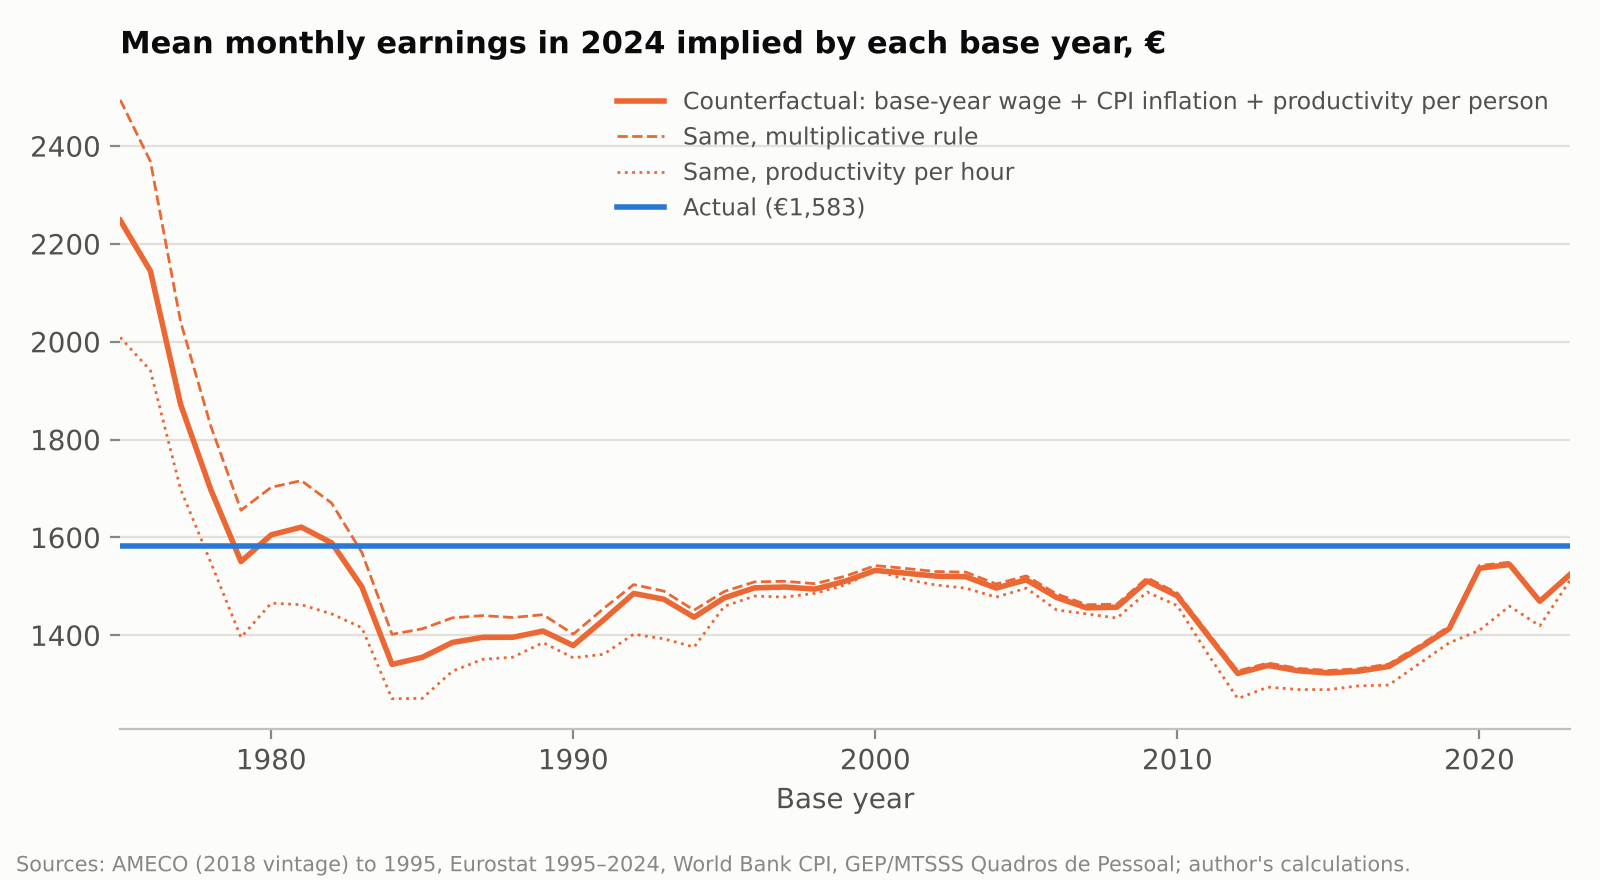
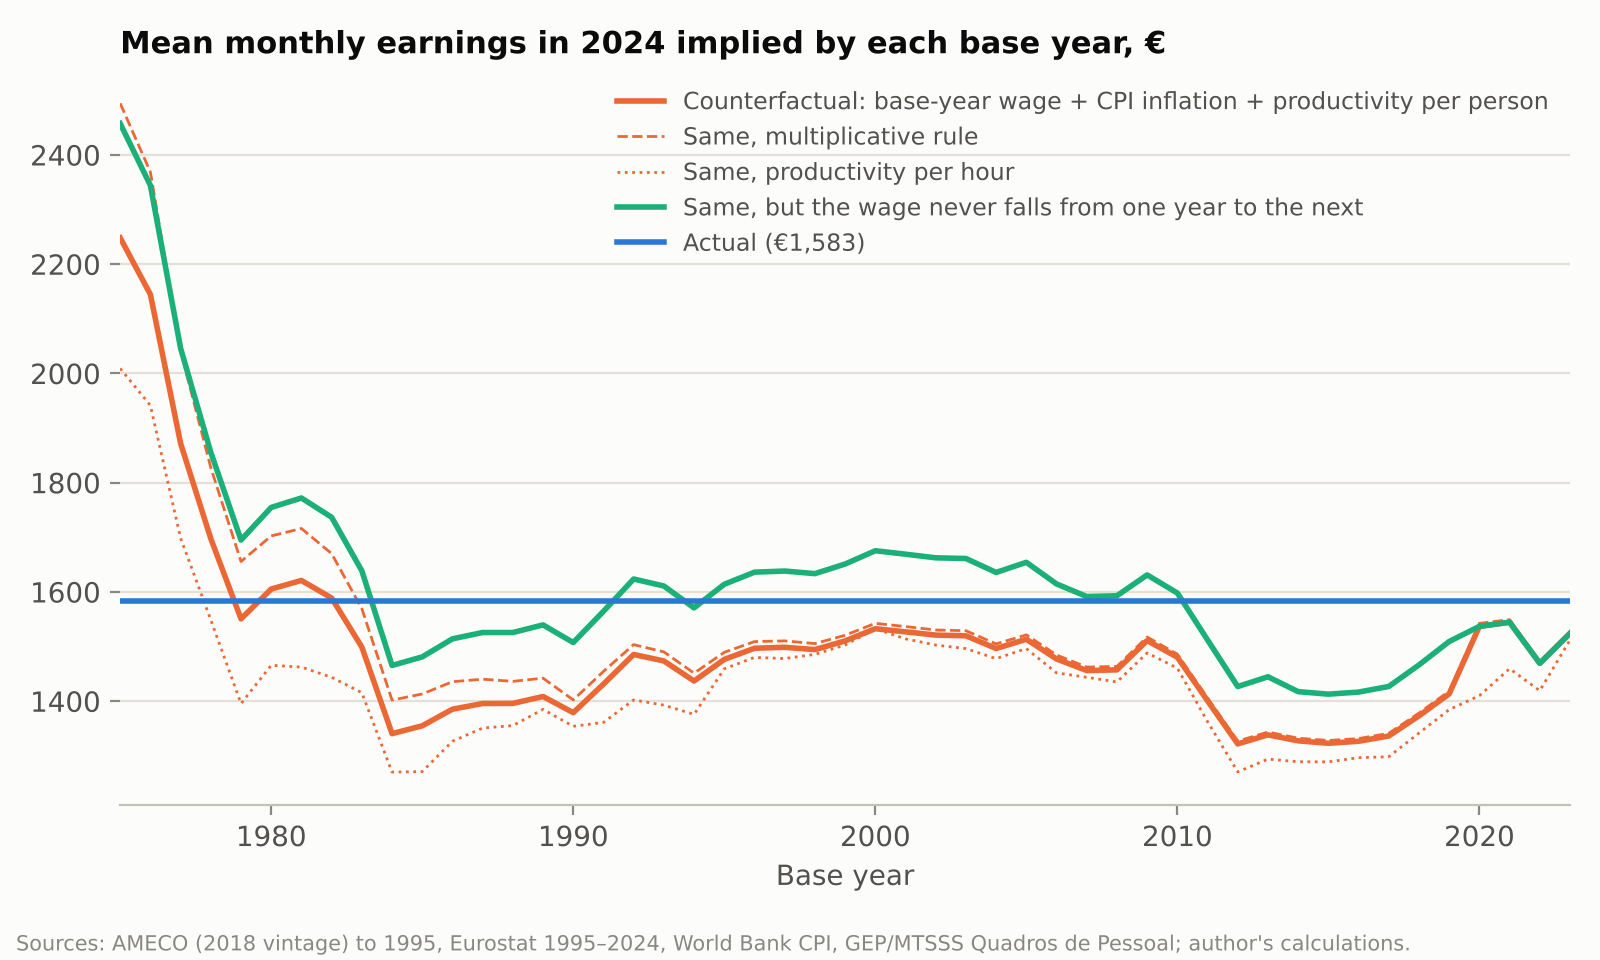
portugal-wage-counterfactual: no-fall scenarios (nominal floor, productivity floor) and article section

diff --git a/portugal-wage-counterfactual/wage_counterfactual.py b/portugal-wage-counterfactual/wage_counterfactual.py
@@ -96,17 +96,33 @@ def build_inputs() -> pd.DataFrame:
     return t
 
 
+FLOORS = (None, "nominal", "productivity")
+
+
 def counterfactual(t: pd.DataFrame, base: int, productivity: str = "person",
-                   rule: str = "additive", start_level: float | None = None) -> pd.Series:
-    """Wage path from ``base`` to END, indexed to inflation plus productivity growth."""
+                   rule: str = "additive", start_level: float | None = None,
+                   floor: str | None = None) -> pd.Series:
+    """Wage path from ``base`` to END, indexed to inflation plus productivity growth.
+
+    ``floor="nominal"``: the wage never falls below the previous year's (no nominal
+    cuts; a year with inflation plus productivity growth below zero leaves it flat).
+    ``floor="productivity"``: falls in productivity are not passed on (g floored at
+    zero), while inflation, including deflation, still is.
+    """
+    if floor not in FLOORS:
+        raise ValueError(floor)
     g = t.loc[base + 1:END, PRODUCTIVITY[productivity]]
     pi = t.loc[base + 1:END, "infl"]
+    if floor == "productivity":
+        g = g.clip(lower=0)
     if rule == "additive":
         step = 1 + pi + g
     elif rule == "multiplicative":
         step = (1 + pi) * (1 + g)
     else:
         raise ValueError(rule)
+    if floor == "nominal":
+        step = step.clip(lower=1)
     level = t.loc[base, "actual"] if start_level is None else start_level
     path = pd.concat([pd.Series([1.0], index=[base]), step.cumprod()])
     return level * path
@@ -213,7 +229,11 @@ def main() -> None:
         rows.append({"base": base, "cf_over_actual": r, "qp_mean_cf": qp_mean * r,
                      "qp_median_cf": qp_median * r,
                      "cf_over_actual_mult": ratio(t, base, rule="multiplicative"),
-                     "cf_over_actual_hour": ratio(t, base, productivity="hour")})
+                     "cf_over_actual_hour": ratio(t, base, productivity="hour"),
+                     "cf_over_actual_no_cut": ratio(t, base, floor="nominal"),
+                     "cf_over_actual_no_prod_fall": ratio(t, base, floor="productivity"),
+                     "cf_over_actual_no_cut_hour": ratio(t, base, productivity="hour",
+                                                         floor="nominal")})
     sens = pd.DataFrame(rows)
     sens.round(4).to_csv(RESULTS / "base_year_sensitivity.csv", index=False)
     w("Every base year (productivity per person, additive): CF/actual, QP mean and median in " + str(END))
@@ -227,6 +247,55 @@ def main() -> None:
     for col, label in (("cf_over_actual_mult", "multiplicative"), ("cf_over_actual_hour", "per hour")):
         w(f"  {label}: base years above actual: "
           f"{', '.join(str(b) for b in sens.loc[sens[col] > 1, 'base'])}")
+    w("")
+
+    # Scenario: wages cannot fall from one year to the next.
+    step = 1 + t["infl"] + t["g_person"]
+    falls = step.loc[START + 1:END][step.loc[START + 1:END] < 1]
+    w("Scenario: no year-on-year fall (additive rule, productivity per person)")
+    w("  years where inflation + productivity growth < 0: " + ", ".join(
+        f"{y} ({100 * (v - 1):+.2f}%)" for y, v in falls.items()))
+    gfall = t["g_person"].loc[START + 1:END][t["g_person"].loc[START + 1:END] < 0]
+    w("  years where productivity growth < 0: " + ", ".join(
+        f"{y} ({100 * v:+.2f}%)" for y, v in gfall.items()))
+    w(f"  ratchet from no nominal cut, base {START}: {100 * np.log(1 / falls).sum():.1f} log points; "
+      + ", ".join(f"{y} {100 * np.log(1 / v):.2f}" for y, v in falls.items()))
+    w(f"  2020 productivity growth: per person {100 * t.loc[2020, 'g_person']:+.2f}%, "
+      f"per hour {100 * t.loc[2020, 'g_hour']:+.2f}%; 2021: per person "
+      f"{100 * t.loc[2021, 'g_person']:+.2f}%, per hour {100 * t.loc[2021, 'g_hour']:+.2f}%")
+    for floor, label in (("nominal", "no nominal cut"), ("productivity", "no productivity fall passed on")):
+        r = ratio(t, START, floor=floor)
+        w(f"  {label:30s} base {START}: CF/actual {r:.3f}  compensation {a_end * r:>8,.0f}  "
+          f"QP mean {qp_mean * r:>6,.0f}  QP median {qp_median * r:>6,.0f}")
+        rm = ratio(t, START, floor=floor, rule="multiplicative")
+        w(f"  {label:30s} base {START}, multiplicative: CF/actual {rm:.3f}  QP mean {qp_mean * rm:>6,.0f}")
+    for col, label in (("cf_over_actual_no_cut", "no nominal cut"),
+                       ("cf_over_actual_no_prod_fall", "no productivity fall passed on"),
+                       ("cf_over_actual_no_cut_hour", "no nominal cut, per hour")):
+        up = sens.loc[sens[col] > 1, "base"]
+        w(f"  {label}: base years above actual ({len(up)} of {len(sens)}): "
+          f"{', '.join(str(b) for b in up)}")
+        late = sens.loc[sens["base"] >= 1983, col]
+        w(f"    base years 1983-{END - 1}: CF/actual {late.min():.3f} to {late.max():.3f}, median {late.median():.3f}; "
+          f"QP mean {qp_mean * late.min():,.0f} to {qp_mean * late.max():,.0f}")
+    for b in (1985, 1995, 2000, 2008, 2010, 2013, 2015, 2019, 2021):
+        r0 = sens.loc[sens["base"] == b].iloc[0]
+        w(f"  base {b}: rule {r0['cf_over_actual']:.3f} ({qp_mean * r0['cf_over_actual']:,.0f}), "
+          f"no cut {r0['cf_over_actual_no_cut']:.3f} ({qp_mean * r0['cf_over_actual_no_cut']:,.0f}), "
+          f"no productivity fall {r0['cf_over_actual_no_prod_fall']:.3f} "
+          f"({qp_mean * r0['cf_over_actual_no_prod_fall']:,.0f})")
+    cf = counterfactual(t, 1985, start_level=qp.loc[1985, "qp_mean_eur"], floor="nominal")
+    w(f"  Quadros de Pessoal mean only, base 1985, no cut: CF {cf.loc[END]:,.0f}  "
+      f"CF/actual {cf.loc[END] / qp_mean:.3f}")
+    # Floor every year except 2020: how much of the scenario is that one year?
+    no_2020 = []
+    for b in range(START, END):
+        st = (1 + t["infl"] + t["g_person"]).loc[b + 1:END]
+        st = st.where((st >= 1) | (st.index == 2020), 1.0)
+        no_2020.append(t.loc[b, "actual"] * st.prod() / a_end)
+    no_2020 = pd.Series(no_2020, index=range(START, END))
+    w(f"  no cut except in 2020: base years above actual: "
+      f"{', '.join(str(b) for b in no_2020[no_2020 > 1].index)}")
     w("")
 
     dec = pd.DataFrame([{"base": b, **decomposition(t, b)} for b in range(START, END)])
@@ -243,6 +312,7 @@ def main() -> None:
     path = pd.DataFrame({
         "actual_eur_month": t["actual"] / 14,
         "counterfactual_eur_month": counterfactual(t, START) / 14,
+        "counterfactual_no_cut_eur_month": counterfactual(t, START, floor="nominal") / 14,
         "adj_wage_share": t["adj_wage_share"],
     })
     path.index.name = "year"

diff --git a/portugal-wage-counterfactual/tests/test_wage_counterfactual.py b/portugal-wage-counterfactual/tests/test_wage_counterfactual.py
@@ -68,3 +68,30 @@ def test_decomposition_identity(inputs: pd.DataFrame, base: int) -> None:
 def test_unknown_rule_is_rejected(inputs: pd.DataFrame) -> None:
     with pytest.raises(ValueError):
         wc.counterfactual(inputs, 2000, rule="geometric")
+
+
+@pytest.mark.parametrize("floor", ["nominal", "productivity"])
+def test_floor_never_lowers_the_counterfactual(inputs: pd.DataFrame, floor: str) -> None:
+    for base in range(wc.START, wc.END):
+        assert wc.ratio(inputs, base, floor=floor) >= wc.ratio(inputs, base) - 1e-12
+
+
+def test_nominal_floor_path_never_falls(inputs: pd.DataFrame) -> None:
+    path = wc.counterfactual(inputs, wc.START, floor="nominal")
+    assert (path.diff().dropna() >= 0).all()
+
+
+def test_nominal_floor_is_the_rule_times_the_ratchet(inputs: pd.DataFrame) -> None:
+    step = (1 + inputs["infl"] + inputs["g_person"]).loc[1990 + 1:wc.END]
+    ratchet = (1 / step[step < 1]).prod()
+    assert wc.ratio(inputs, 1990, floor="nominal") == pytest.approx(
+        wc.ratio(inputs, 1990) * ratchet, rel=1e-12)
+
+
+def test_floor_changes_nothing_without_a_falling_year(inputs: pd.DataFrame) -> None:
+    assert wc.ratio(inputs, 2021, floor="nominal") == pytest.approx(wc.ratio(inputs, 2021))
+
+
+def test_unknown_floor_is_rejected(inputs: pd.DataFrame) -> None:
+    with pytest.raises(ValueError):
+        wc.counterfactual(inputs, 2000, floor="real")

diff --git a/portugal-wage-counterfactual/figures.py b/portugal-wage-counterfactual/figures.py
@@ -65,13 +65,15 @@ def finish(fig: plt.Figure, name: str, source: str = SOURCE) -> None:
 
 
 def base_year_curve(sens: pd.DataFrame, actual: float) -> None:
-    fig, ax = plt.subplots(figsize=(8, 4.4))
+    fig, ax = plt.subplots(figsize=(8, 4.8))
     ax.plot(sens["base"], actual * sens["cf_over_actual"], color=ORANGE,
             label="Counterfactual: base-year wage + CPI inflation + productivity per person")
     ax.plot(sens["base"], actual * sens["cf_over_actual_mult"], color=ORANGE, lw=1.0,
             ls="--", label="Same, multiplicative rule")
     ax.plot(sens["base"], actual * sens["cf_over_actual_hour"], color=ORANGE, lw=1.0,
             ls=":", label="Same, productivity per hour")
+    ax.plot(sens["base"], actual * sens["cf_over_actual_no_cut"], color=AQUA,
+            label="Same, but the wage never falls from one year to the next")
     ax.axhline(actual, color=BLUE, label=f"Actual (€{actual:,.0f})")
     ax.set_title("Mean monthly earnings in 2024 implied by each base year, €")
     ax.set_xlabel("Base year")

diff --git a/portugal-wage-counterfactual/article.md b/portugal-wage-counterfactual/article.md
@@ -1,10 +1,10 @@
 # Inflation-Plus-Productivity Wage Counterfactuals for Portugal, Computed for Every Base Year from 1975
 
-*The same rule puts the 2024 mean monthly wage anywhere between €1,322 and €2,248. A two-term identity shows what the choice of starting year is really choosing.*
+*The same rule puts the 2024 mean monthly wage anywhere between €1,322 and €2,248, and forbidding the counterfactual to fall in a bad year flips the verdict for twenty base years. A two-term identity shows what the choice of starting year is really choosing.*
 
 A familiar argument in wage debates goes like this. Take the wage of some year in the past. Raise it every year by inflation, so that its purchasing power holds, and by productivity growth, so that workers share in what the economy has learned to produce. Compare the result with today's wage. If today's wage is lower, the difference is presented as what workers have lost. The arithmetic is simple and the conclusion feels mechanical, which is a large part of why it persuades.
 
-The calculation has one parameter that is rarely discussed, the year it starts from, and several measurement choices that are discussed even less. This article runs the rule for Portugal from every base year between 1975 and 2023, translates each result into the 2024 mean and median monthly earnings, and then splits every answer into two components with an accounting identity. The aim is not to defend or attack any particular number. It is to show which choices carry the result, so that anyone who uses this benchmark, in a wage negotiation, a policy note or a newspaper column, can say what they are actually assuming when they use it.
+The calculation has one parameter that is rarely discussed, the year it starts from, and several measurement choices that are discussed even less. This article runs the rule for Portugal from every base year between 1975 and 2023, adds a scenario in which the counterfactual wage is never allowed to fall from one year to the next, translates each result into the 2024 mean and median monthly earnings, and then splits every answer into two components with an accounting identity. The aim is not to defend or attack any particular number. It is to show which choices carry the result, so that anyone who uses this benchmark, in a wage negotiation, a policy note or a newspaper column, can say what they are actually assuming when they use it.
 
 ## The rule and the data
 
@@ -40,11 +40,23 @@ Figure 2 repeats the calculation for every base year from 1975 to 2023 and plots
 
 ![Figure 2](https://raw.githubusercontent.com/DiogoRibeiro7/Medium-Blog/main/portugal-wage-counterfactual/figures/fig2_base_year_curve.png)
 
-*Figure 2. Mean monthly earnings in 2024 implied by the inflation-plus-productivity rule, by base year, against the actual Quadros de Pessoal mean. Solid orange line: additive rule, productivity per person employed. Dashed: multiplicative rule. Dotted: productivity per hour worked. Blue line: actual.*
+*Figure 2. Mean monthly earnings in 2024 implied by the inflation-plus-productivity rule, by base year, against the actual Quadros de Pessoal mean. Solid orange line: additive rule, productivity per person employed. Dashed: multiplicative rule. Dotted: productivity per hour worked. Green line: additive rule with no year-on-year fall. Blue line: actual.*
 
 Under the headline specification the counterfactual is above the actual wage for only seven base years: 1975 to 1978 and 1980 to 1982. From 1983 onwards it is below the actual wage for every single base year, at between 83.5% and 97.6% of it, with a median of 92.8%. In salary terms, the implied 2024 mean ranges from €1,322 (base year 2012) to €1,545 (base year 2021). Across all forty-nine starting years, the same data and the same rule produce a 2024 mean between €1,322 and €2,248, a factor of 1.7 between the lowest and the highest answer.
 
 The two variants move the curve most where it is most dramatic. Under the multiplicative rule the counterfactual stays above the actual wage for every base year up to 1982. With productivity per hour, it is above only for 1975 to 1977. Between the late 1990s and 2010, with inflation low, the three lines nearly coincide; for later base years the per-hour line sits lower, because hours per person employed rose after 2010. The specification choices matter in the high-inflation years, which are also the years that produce the large claims.
+
+## When the wage is not allowed to fall
+
+The rule as stated lets the counterfactual wage fall in a bad year, because productivity can shrink and prices can drop. Portuguese labour law does not let an employer do the same to a worker: [article 129 of the Labour Code](https://www.idealista.pt/news/node/65421) prohibits reducing pay outside the cases the Code or a collective agreement provides for. A benchmark meant to describe what workers should be earning arguably has to respect that constraint, so I also run the rule with a floor. In any year in which inflation plus productivity growth is negative, the counterfactual stays where it was instead of falling.
+
+Since 1975 that happens in three years: 2009 (−1.24%), 2014 (−1.07%) and 2020 (−6.36%). The floor skips those falls and keeps every rise, so it works as a ratchet, and its effect is exact and easy to state: the floored counterfactual is the unfloored one multiplied by the inverse of each skipped step. In log points the ratchet is 1.25 for 2009, 1.08 for 2014 and 6.57 for 2020, 8.9 in all for any base year before 2009.
+
+From 1975, the no-cut counterfactual gives a 2024 mean of €2,457 instead of €2,248 and a median of €1,842 instead of €1,685. The larger change is in the rest of the curve, the green line in Figure 2. The counterfactual is now above the actual wage for 27 base years out of 49 instead of seven: 1975 to 1983, 1992, 1993, and every year from 1995 to 2010. From a 2000 base, for example, the mean would be €1,675, above the actual €1,583, where the rule as stated gave €1,533. On the Quadros de Pessoal series alone, the floor moves the 1985-based counterfactual from €1,454 to €1,589, essentially the actual wage (a ratio of 1.004). A gentler version, which ignores falls in productivity but still passes on deflation, gives almost the same picture, with 25 base years above the actual wage.
+
+Almost all of that change comes from one year. 2020 supplies 6.57 of the 8.9 log points, and with the floor applied in 2009 and 2014 but not in 2020, no base year after 1982 ends above the actual wage. The 2020 fall was a fall in output per person employed, not in output per hour. Productivity per person fell 6.35% that year while productivity per hour was flat, because hours worked fell with output while employment held up, in a year when job-retention schemes kept many workers on payrolls at reduced hours. In 2021 productivity per person rebounded by 4.10% (per hour by 1.02%). The floor skips the fall and keeps the rebound, and the counterfactual pockets the swing. Measured per hour, where the collapse never happened, the no-cut scenario leaves only 1975 to 1978 above the actual wage.
+
+Two points follow. The floor is a reasonable reading of how Portuguese wages are set, and it is also not how they always behaved: actual compensation per employee fell in nominal terms in 2011, 2012 and 2014, the years of public-sector pay cuts. And a scenario that looks like a legal technicality turns out to be, in practice, a choice about how to treat a single pandemic year in the productivity series. That choice decides the verdict for twenty base years.
 
 ## The identity behind the curve
 
@@ -92,13 +104,13 @@ Finally, there is an independent check on the whole construction. Quadros de Pes
 
 None of this makes the inflation-plus-productivity benchmark useless. It makes it a function of the base year, and a function should be reported as a function. Three things turn the single-number claim into something a reader can evaluate.
 
-The first is the curve. State the base year, and show where its answer sits among all the others, as in Figure 2. A result that holds for seven base years out of forty-nine is a different finding from one that holds for forty-two.
+The first is the curve. State the base year, and show where its answer sits among all the others, as in Figure 2. A result that holds for seven base years out of forty-nine is a different finding from one that holds for forty-two, and both are different from one that holds for twenty-seven once a floor is added.
 
 The second is the decomposition. Since productivity cancels, the multiplicative 1975 result, a mean of €2,494, is exactly the claim that the adjusted wage share should return to its 1975 level, with consumer prices and GDP prices moving as they did. The additive €2,248 is the same claim with the cross term dropped. Written that way, it can be argued on its merits, by people who disagree about what the wage share ought to be, rather than presented as a matter of arithmetic.
 
-The third is a deliberate price index. The CPI answers a question about purchasing power: what can a worker buy with the wage, relative to what output per worker became? The GDP deflator answers a question about distribution: what fraction of the value produced goes to employees? The two give different answers for Portugal by about ten log points for most base years, and an analysis should say which question it is asking.
+The third is a deliberate price index. The CPI answers a question about purchasing power: what can a worker buy with the wage, relative to what output per worker became? The GDP deflator answers a question about distribution: what fraction of the value produced goes to employees? The two give different answers for Portugal by about ten log points for most base years, and an analysis should say which question it is asking. The same goes for asymmetries such as a no-cut floor: if one is imposed, report it next to the symmetric rule and say which years it binds in, because for Portugal it binds in essentially one.
 
-For Portugal, the data say this. Since 1975, real compensation per employee has grown much more slowly than output per worker, and almost all of that gap is the fall of the wage share from its post-revolution peak, most of it before 1985. From every base year since 1983, wages have cleared the CPI-plus-productivity bar, mainly because consumer prices rose about ten log points less than GDP prices, while the wage share stayed within about nine log points of today's. Whether 1975 or 1985 is the right reference is a question about how income should be distributed. That is the question the benchmark was supposed to answer, and it turns out to be the question the benchmark has to assume.
+For Portugal, the data say this. Since 1975, real compensation per employee has grown much more slowly than output per worker, and almost all of that gap is the fall of the wage share from its post-revolution peak, most of it before 1985. Under the rule as stated, wages have cleared the CPI-plus-productivity bar from every base year since 1983, mainly because consumer prices rose about ten log points less than GDP prices, while the wage share stayed within about nine log points of today's. If the counterfactual is not allowed to fall, base years from 1992 to 2010 flip to the other side, and the flip comes almost entirely from how output per person employed fell and recovered in 2020. Whether 1975 or 1985 is the right reference is a question about how income should be distributed. That is the question the benchmark was supposed to answer, and it turns out to be the question the benchmark has to assume.
 
 ---
 

diff --git a/portugal-wage-counterfactual/README.md b/portugal-wage-counterfactual/README.md
@@ -9,6 +9,8 @@ W_t = W_{t-1} · (1 + π_t) · (1 + g_t)    multiplicative rule
 
 The only wage series that reaches back to 1975 is national-accounts compensation per employee (D1 / employees, including employer contributions): AMECO for 1975–1995, chain-linked at 1995 to the Eurostat snapshot in `../portugal-labour-share/data` for 1995–2024. The counterfactual-to-actual ratio is applied to the 2024 Quadros de Pessoal mean (€1,582.7) and median (€1,186.55) monthly earnings. No Portuguese median wage exists for 1975, so the median result assumes the median/mean ratio of the base year equals that of 2024.
 
+Two asymmetric scenarios are added: no nominal fall (a year in which inflation plus productivity growth is negative leaves the counterfactual flat, as Portuguese law does not allow pay cuts) and no productivity fall passed on (productivity growth floored at zero, deflation still passed on). In Portugal the floor binds in 2009, 2014 and 2020, and 2020, when output per person employed fell 6.35% while output per hour was flat, accounts for most of its effect.
+
 The script also runs every base year from 1975 to 2023, splits the multiplicative gap into a consumer-price/GDP-deflator wedge and the change in the adjusted wage share, and repeats the exercise on the Quadros de Pessoal mean alone from 1985 and the median alone from 2021.
 
 ## Run
